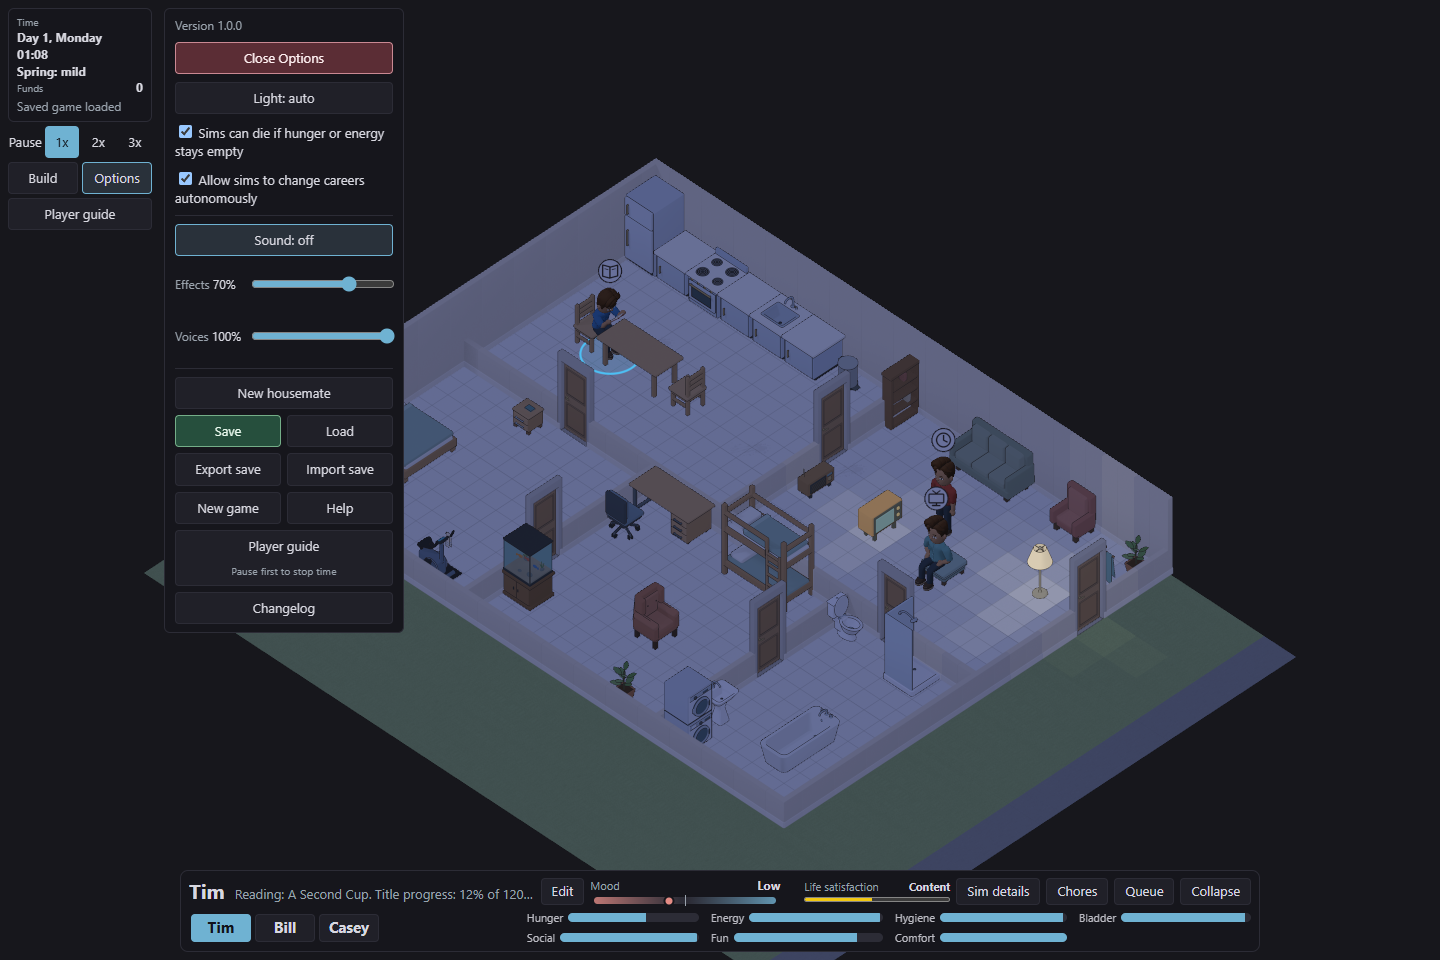
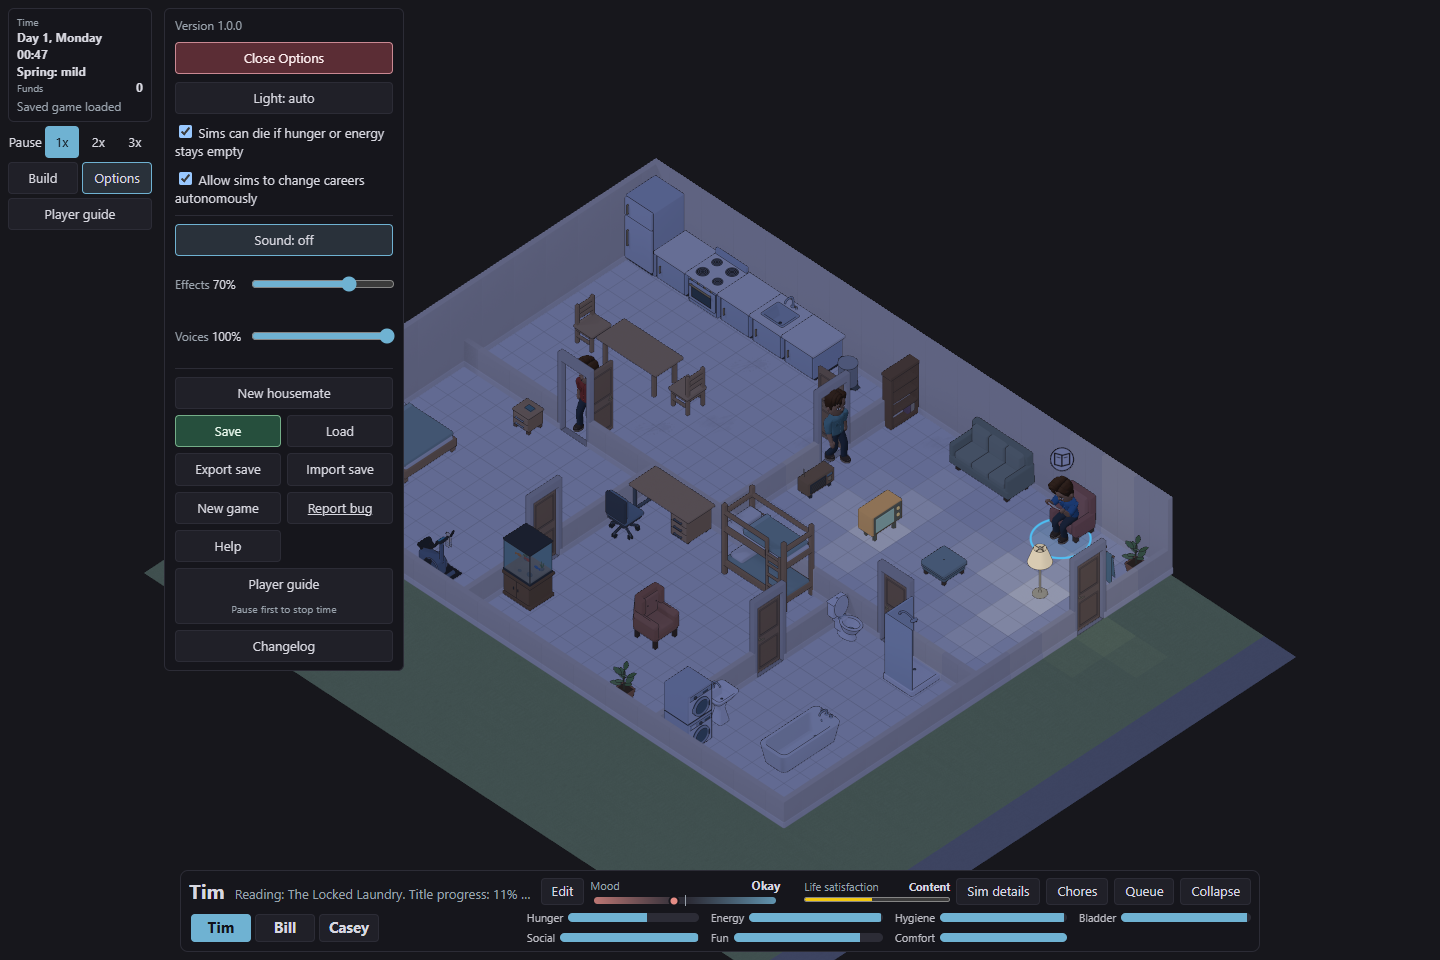
Integrate main's bug reporting with save files and the new address
Main added Report bug to Options and a same-day changelog entry. Fold
the new address and save file notes into that entry, since the
changelog allows one entry per date, list Report bug beside Export save
and Import save in the guide, and point the guide's Startup report
links at natural-causes.life.

Recapture the Options panel and the Import confirmation from the
merged build so the guide pictures show every current control, and
refresh the reviewed source record.

diff --git a/docs/player/changelog/2026-10-23-startup-report-sharing.md b/docs/player/changelog/2026-10-23-startup-report-sharing.md
@@ -1,6 +1,13 @@
-# Easier bug reports
+# New address, save files and easier bug reports
 
-Send loading and in-game error details from Options, the failure screen or Startup report page.
+Natural Causes is now at natural-causes.life, saved households can move between browsers and devices as files, and error details can be sent from Options, the failure screen or Startup report page.
+
+## New
+
+- Natural Causes has its own address: natural-causes.life. The old address opens the new one.
+- Options has Export save, which downloads your household as a file.
+- Options has Import save, which loads a save file after you confirm. It replaces the current game and your saved game in this browser.
+- A save made at the old address can come along: open [Move your Natural Causes save](https://thisnameissoclever.github.io/natural-causes-old-save/) in the browser where you played, choose Download save, then use Import save at natural-causes.life. Do this soon, because some browsers clear saved data for sites you have not visited for a while.
 
 ## Improved
 
